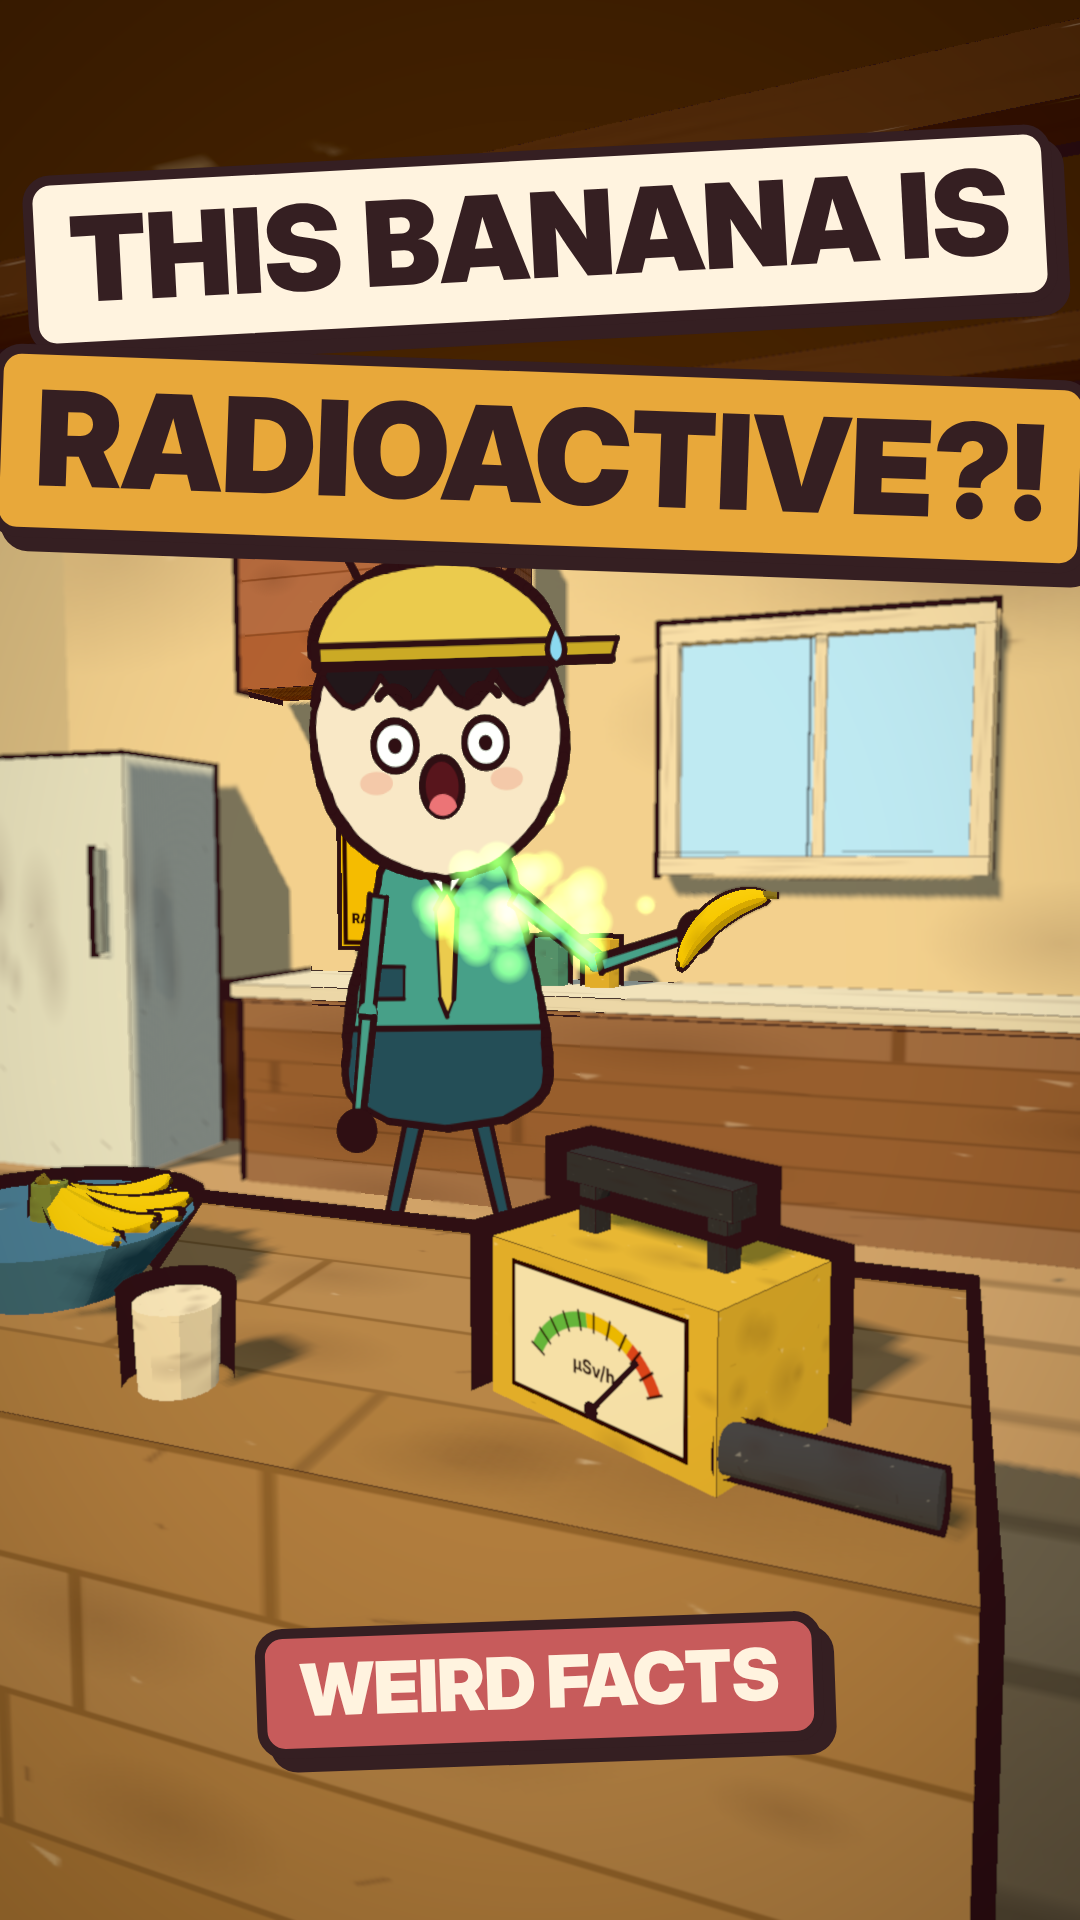
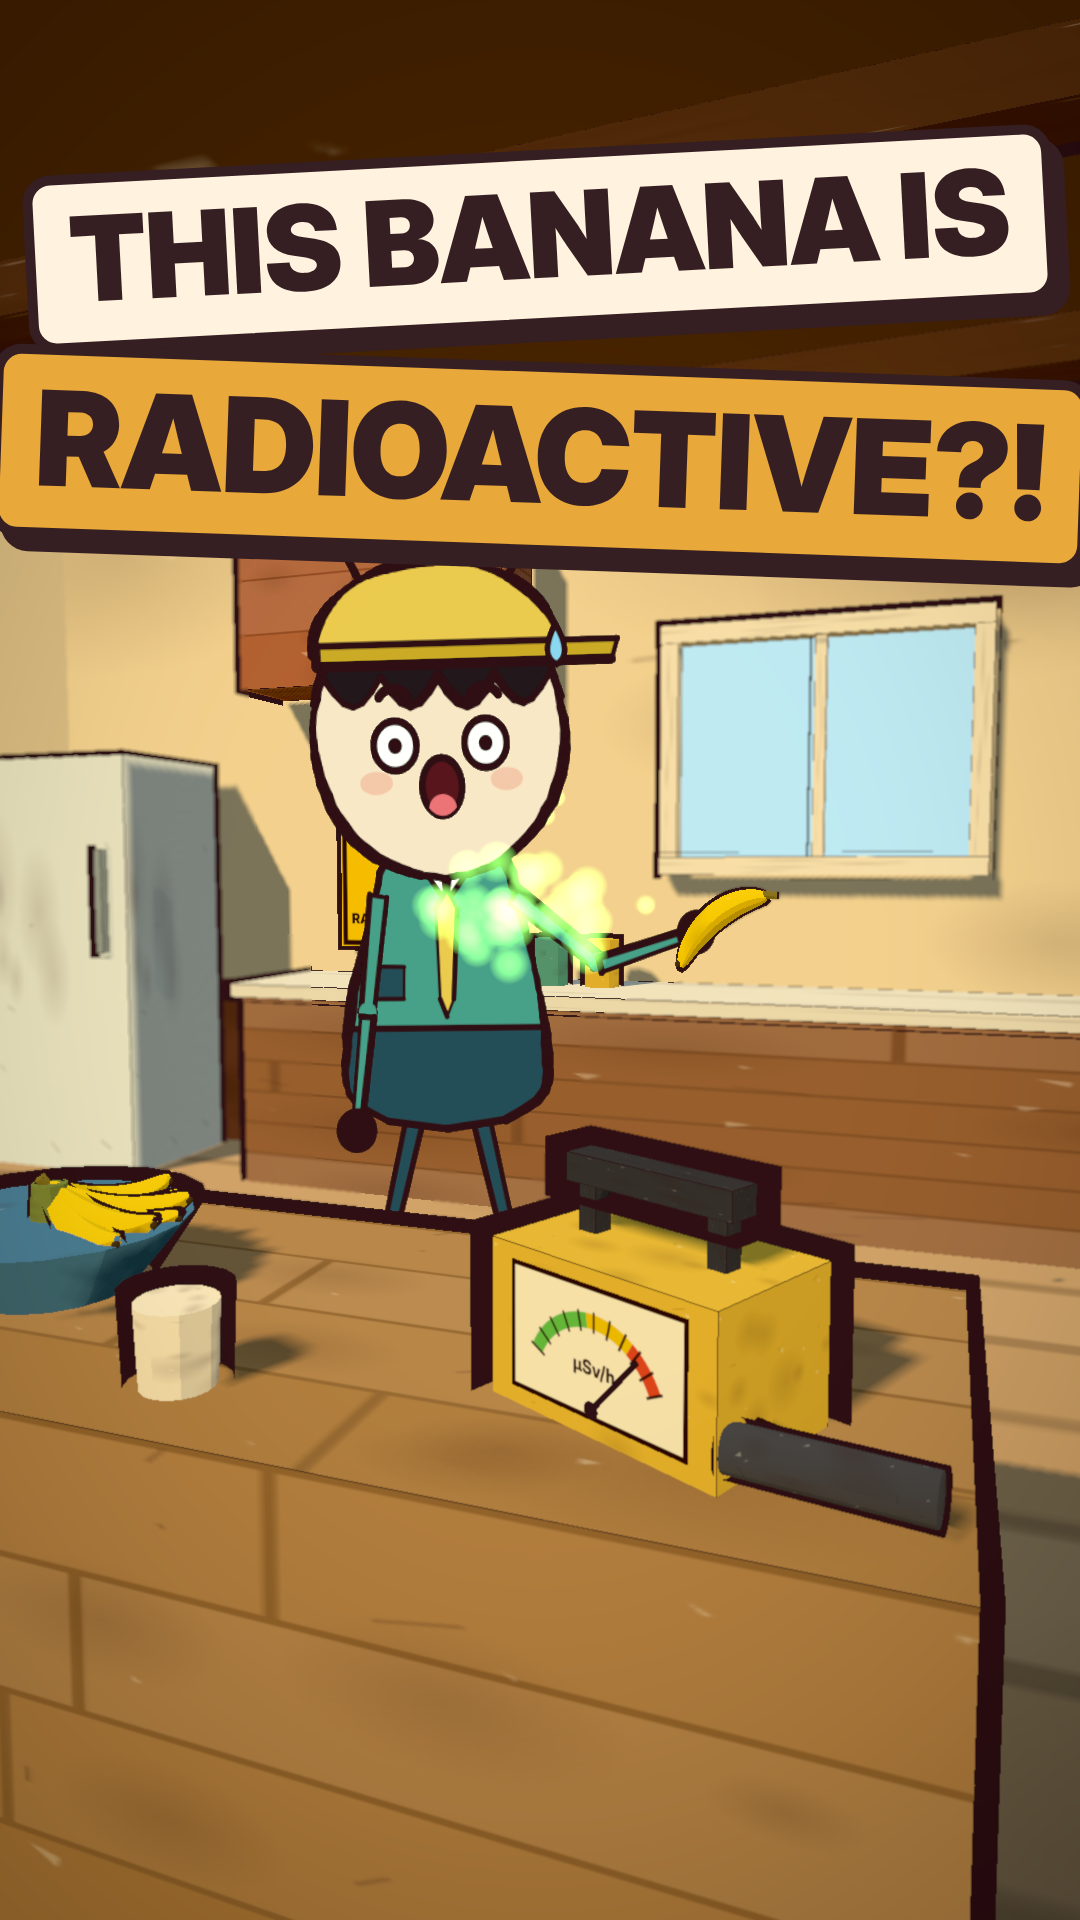
Remove tag label from thumbnails
Claude-Session: https://claude.ai/code/session_01EsaXenu6uBtnQ61DJCHAmA

Changed region(s): [[0.2139, 0.8125, 0.7944, 0.9375]]

diff --git a/src/Video.jsx b/src/Video.jsx
@@ -194,8 +194,8 @@ export const Story = ({lang, captions = true}) => {
 };
 
 const TH = {
-  id: {top: 'PISANG INI', mid: 'RADIOAKTIF?!', tag: 'FAKTA UNIK'},
-  en: {top: 'THIS BANANA IS', mid: 'RADIOACTIVE?!', tag: 'WEIRD FACTS'},
+  id: {top: 'PISANG INI', mid: 'RADIOAKTIF?!'},
+  en: {top: 'THIS BANANA IS', mid: 'RADIOACTIVE?!'},
 };
 const THUMB_T = {id: 3.9, en: 3.75};
 export const Thumb = ({lang}) => {
@@ -214,9 +214,6 @@ export const Thumb = ({lang}) => {
       <AbsoluteFill style={{alignItems: 'center', paddingTop: 150, gap: 34}}>
         {word(tx.top, 118, '#fff3df', ink, -3)}
         {word(tx.mid, 132, '#e8a83a', ink, 2)}
-      </AbsoluteFill>
-      <AbsoluteFill style={{justifyContent: 'flex-end', alignItems: 'center', paddingBottom: 170}}>
-        {word(tx.tag, 72, '#c75b5b', '#fff3df', -2)}
       </AbsoluteFill>
     </AbsoluteFill>
   );
